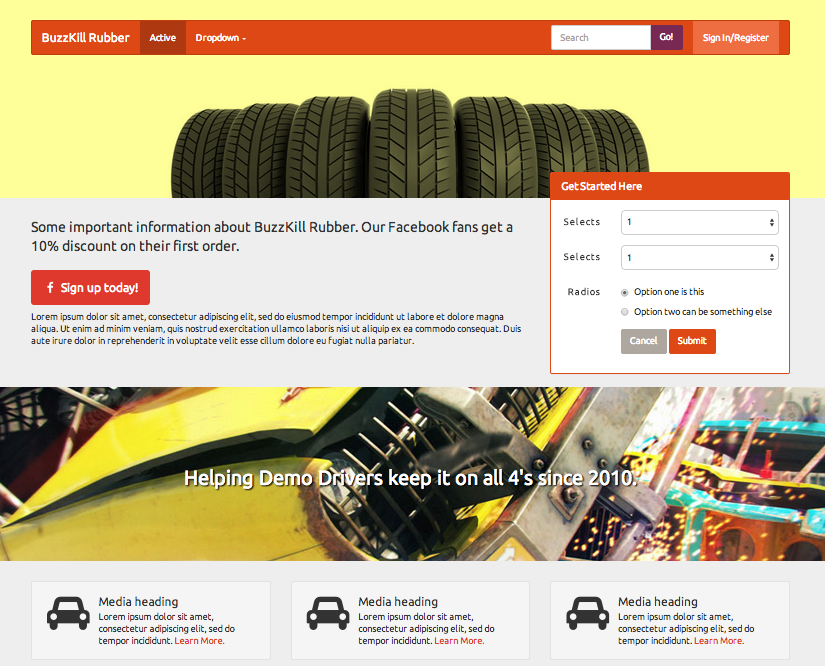
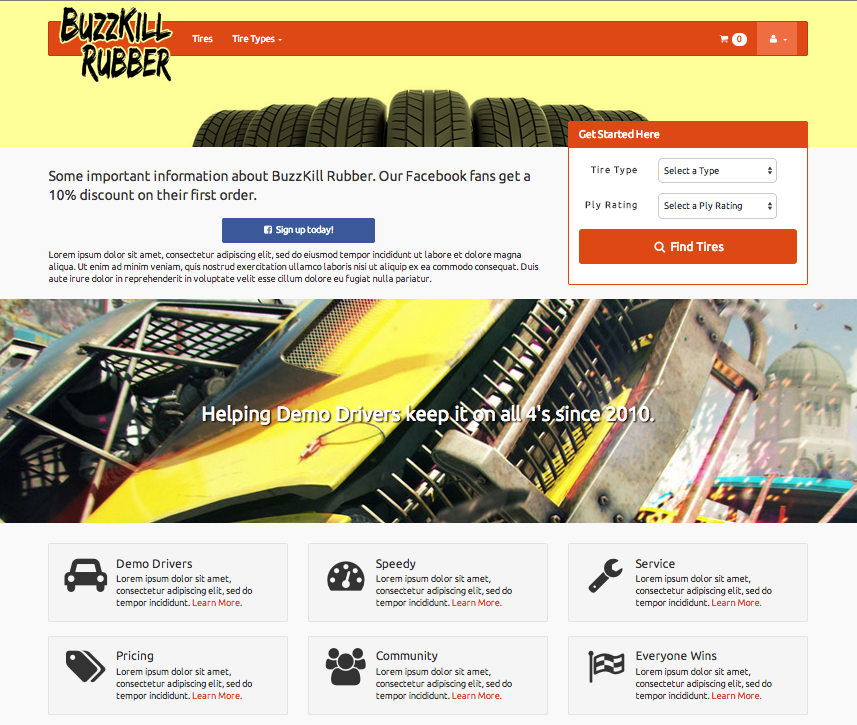
buzzkill update

diff --git a/_posts/2014-11-15-buzzkill-rubber.md b/_posts/2014-11-15-buzzkill-rubber.md
@@ -1,10 +1,10 @@
 ---
-title:	"Potential Client: BuzzKill Rubber Co."
+title:	"BuzzKill Rubber Co."
 layout:	post
-date:	2014-11-15
-link:	buzzkillrubber.github.io
-link_url:	http://buzzkillrubber.github.io/
+date:	2014-12-02
+link:	buzzkillrubber.tk
+link_url:	http://buzzkillrubber.tk/
 image:	portfolio-buzzkill.png
-tags:	jekyll
+tags:	rails
 ---
-Created a Jekyll site to quickly mock-up a design for BuzzKill Rubber Co.
+Created a Ruby on Rails application for BuzzKill Rubber Co. to help the company expand by selling their products online.
